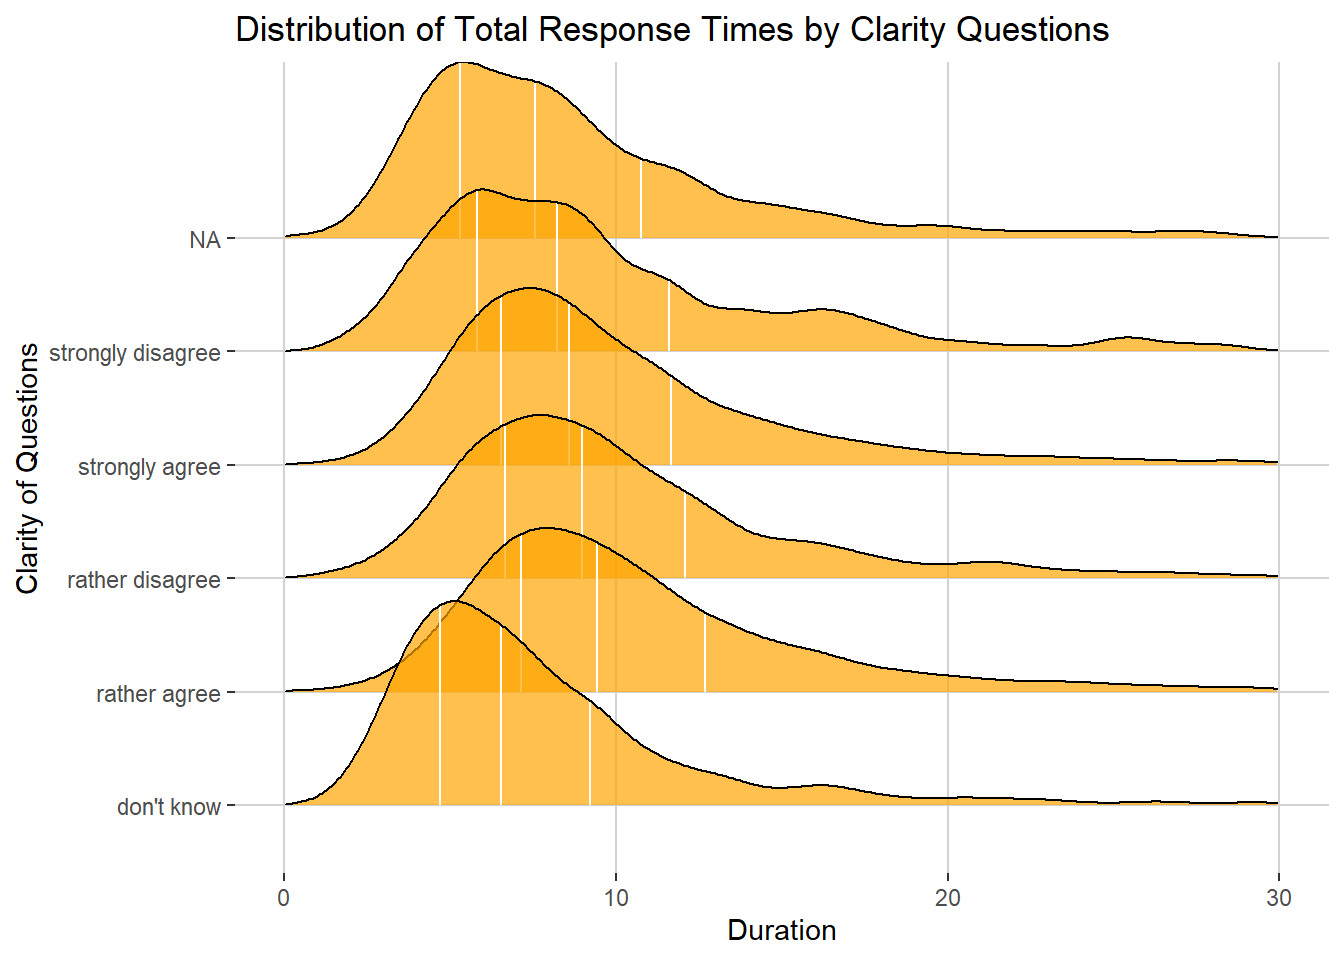
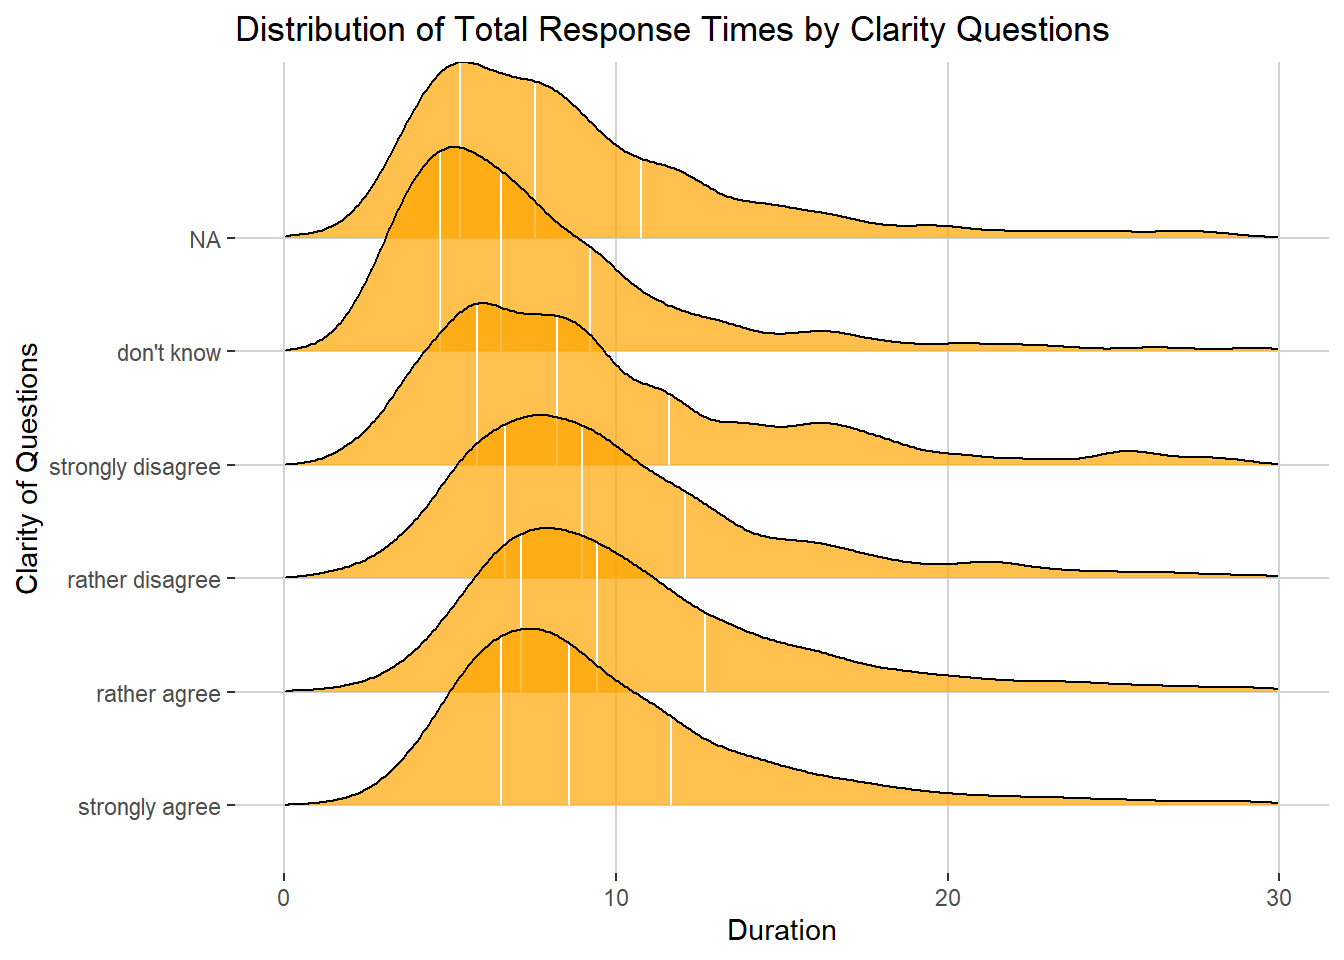
Investigate "don't know" compared to missing responses

diff --git a/analysis_notebooks/sample_characteristics.html b/analysis_notebooks/sample_characteristics.html
@@ -71,7 +71,13 @@ ul.task-list li input[type="checkbox"] {
 
 <section id="number-of-survey-respondents" class="level2">
 <h2 class="anchored" data-anchor-id="number-of-survey-respondents">Number of survey respondents</h2>
-<p>The survey included three waves, with one wave each year from 2021 to 2023. In addition to a broad national survey, participants were also specifically recruited at the four higher education institutions that are partners within the <a href="https://lpnu.ua/en/optima">OPTIMA</a> project:</p>
+<p>The survey included three waves, with one wave each year from 2021 to 2023. Total number of respondents per wave were the following:</p>
+<ul>
+<li><p>2021: 9203 respondents</p></li>
+<li><p>2022: 9708 respondents</p></li>
+<li><p>2023: 5794 respondents</p></li>
+</ul>
+<p>In addition to a broad national survey, participants were also specifically recruited at the four higher education institutions that are partners within the <a href="https://lpnu.ua/en/optima">OPTIMA</a> project:</p>
 <ul>
 <li>Lviv Polytechnic National University (LPU)</li>
 <li>Sumy State University (SumDU)</li>
@@ -194,28 +200,34 @@ ul.task-list li input[type="checkbox"] {
 <td style="text-align: right;">2150</td>
 </tr>
 <tr class="odd">
+<td style="text-align: left;">research staff</td>
+<td style="text-align: right;">118</td>
+<td style="text-align: right;">216</td>
+<td style="text-align: right;">113</td>
+</tr>
+<tr class="even">
 <td style="text-align: left;">university administrator</td>
 <td style="text-align: right;">193</td>
 <td style="text-align: right;">150</td>
 <td style="text-align: right;">156</td>
 </tr>
-<tr class="even">
+<tr class="odd">
 <td style="text-align: left;">librarian</td>
 <td style="text-align: right;">223</td>
 <td style="text-align: right;">84</td>
 <td style="text-align: right;">90</td>
 </tr>
-<tr class="odd">
+<tr class="even">
 <td style="text-align: left;">other</td>
 <td style="text-align: right;">204</td>
 <td style="text-align: right;">122</td>
 <td style="text-align: right;">180</td>
 </tr>
-<tr class="even">
+<tr class="odd">
 <td style="text-align: left;">NA</td>
-<td style="text-align: right;">118</td>
-<td style="text-align: right;">216</td>
-<td style="text-align: right;">113</td>
+<td style="text-align: right;">0</td>
+<td style="text-align: right;">0</td>
+<td style="text-align: right;">0</td>
 </tr>
 </tbody>
 </table>
@@ -449,7 +461,7 @@ ul.task-list li input[type="checkbox"] {
 <td style="text-align: right;">317</td>
 </tr>
 <tr class="even">
-<td style="text-align: left;">Humanities (religious studies, history and archeology, philosophy, cultural studies, philology)</td>
+<td style="text-align: left;">Humanities</td>
 <td style="text-align: right;">752</td>
 <td style="text-align: right;">590</td>
 <td style="text-align: right;">522</td>
@@ -521,7 +533,7 @@ ul.task-list li input[type="checkbox"] {
 <td style="text-align: right;">83</td>
 </tr>
 <tr class="even">
-<td style="text-align: left;">Social and behavioral sciences (economics, political science, psychology, sociology)</td>
+<td style="text-align: left;">Social and behavioral sciences</td>
 <td style="text-align: right;">878</td>
 <td style="text-align: right;">886</td>
 <td style="text-align: right;">493</td>
@@ -817,17 +829,14 @@ ul.task-list li input[type="checkbox"] {
 <tr class="header">
 <th style="text-align: left;" data-quarto-table-cell-role="th"></th>
 <th style="text-align: right;" data-quarto-table-cell-role="th">vars</th>
-<th style="text-align: right;" data-quarto-table-cell-role="th">n</th>
 <th style="text-align: right;" data-quarto-table-cell-role="th">mean</th>
 <th style="text-align: right;" data-quarto-table-cell-role="th">sd</th>
 <th style="text-align: right;" data-quarto-table-cell-role="th">median</th>
-<th style="text-align: right;" data-quarto-table-cell-role="th">trimmed</th>
 <th style="text-align: right;" data-quarto-table-cell-role="th">mad</th>
 <th style="text-align: right;" data-quarto-table-cell-role="th">min</th>
 <th style="text-align: right;" data-quarto-table-cell-role="th">max</th>
 <th style="text-align: right;" data-quarto-table-cell-role="th">range</th>
 <th style="text-align: right;" data-quarto-table-cell-role="th">skew</th>
-<th style="text-align: right;" data-quarto-table-cell-role="th">kurtosis</th>
 <th style="text-align: right;" data-quarto-table-cell-role="th">se</th>
 </tr>
 </thead>
@@ -835,18 +844,15 @@ ul.task-list li input[type="checkbox"] {
 <tr class="odd">
 <td style="text-align: left;">X1</td>
 <td style="text-align: right;">1</td>
-<td style="text-align: right;">24705</td>
-<td style="text-align: right;">16.21026</td>
-<td style="text-align: right;">84.8998</td>
-<td style="text-align: right;">9.066667</td>
-<td style="text-align: right;">9.794133</td>
-<td style="text-align: right;">4.15128</td>
+<td style="text-align: right;">16.21</td>
+<td style="text-align: right;">84.9</td>
+<td style="text-align: right;">9.07</td>
+<td style="text-align: right;">4.15</td>
 <td style="text-align: right;">0</td>
 <td style="text-align: right;">5289.05</td>
 <td style="text-align: right;">5289.05</td>
-<td style="text-align: right;">34.04472</td>
-<td style="text-align: right;">1524.441</td>
-<td style="text-align: right;">0.5401498</td>
+<td style="text-align: right;">34.04</td>
+<td style="text-align: right;">0.54</td>
 </tr>
 </tbody>
 </table>
@@ -951,6 +957,20 @@ ul.task-list li input[type="checkbox"] {
 </div>
 </div>
 <p>In the plot some groups appear to have answered quite rarely with “don’t know”, mainly university administrators and research staff. Students in their early years of study might also be less familiar with the topic. One notable outlier can be seen in librarians who indicated that they were not able to answer a question the most (however, this is one of the smallest groups among survey respondents).</p>
+<div class="cell">
+<div class="cell-output-display">
+<p><img src="sample_characteristics_files/figure-html/unnamed-chunk-23-1.png" class="img-fluid" width="672"></p>
+</div>
+</div>
+</section>
+<section id="comparison-of-na-and-dont-know-answers" class="level2">
+<h2 class="anchored" data-anchor-id="comparison-of-na-and-dont-know-answers">Comparison of NA and “don’t know” answers</h2>
+<p>Missing answers seem to be very rare compared to “don’t know” answers. They have almost no weight when examining questions where no specific response on agreement or frequency was provided. Participants mostly did not skip questions, rather answered with “don’t know”.</p>
+<div class="cell">
+<div class="cell-output-display">
+<p><img src="sample_characteristics_files/figure-html/unnamed-chunk-24-1.png" class="img-fluid" width="672"></p>
+</div>
+</div>
 </section>
 
 </main>
